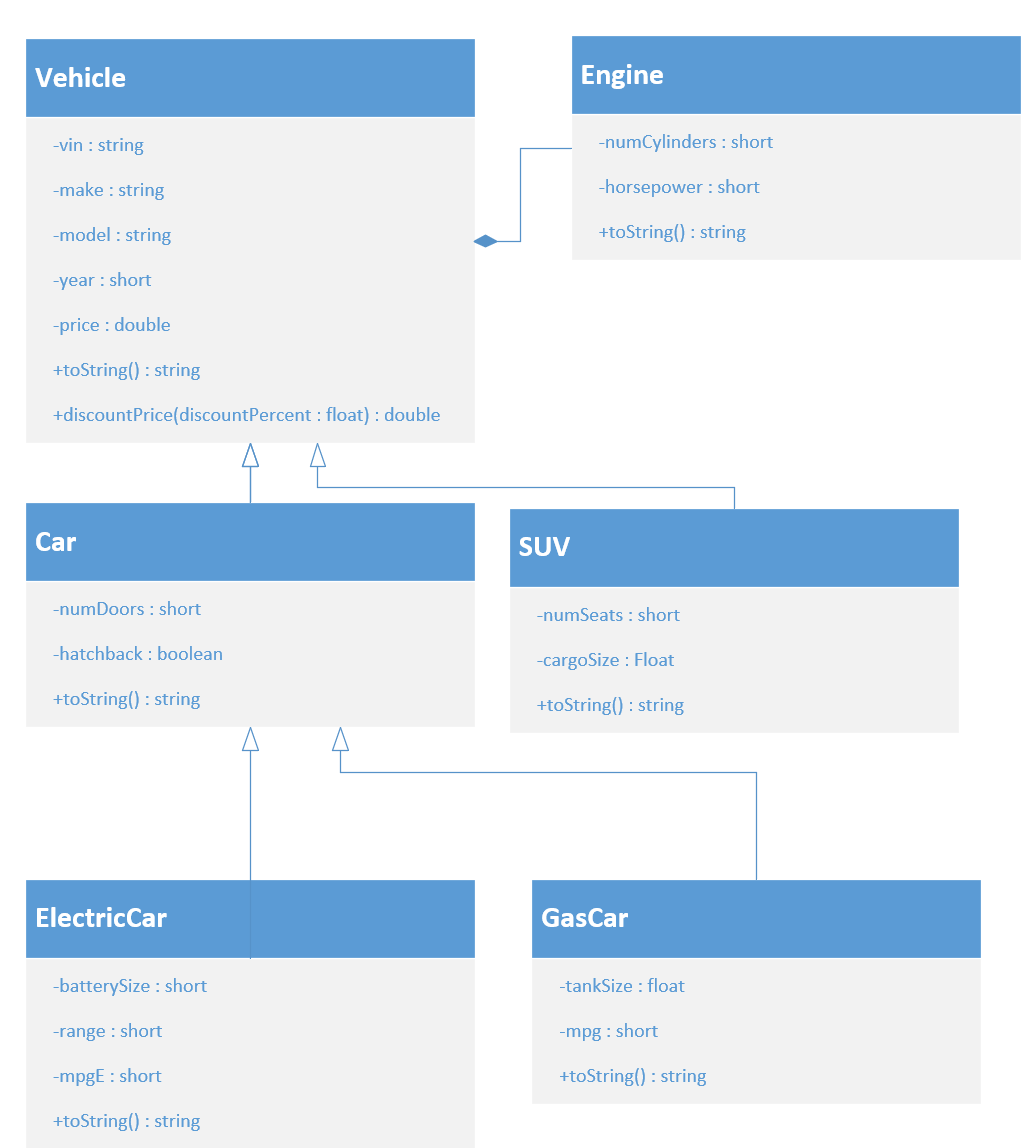
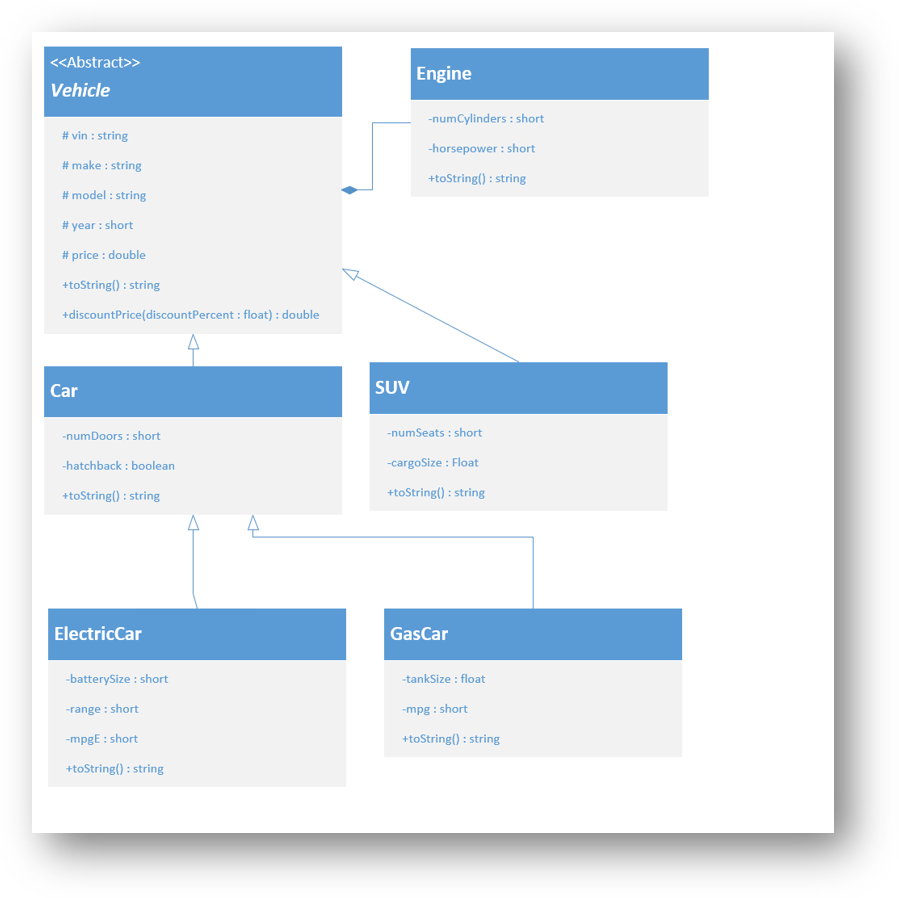
Completed Project

diff --git a/source/Source.cpp b/source/Source.cpp
@@ -2,8 +2,8 @@
 --------------------------------
 Developer: Allan Pita
 Course: CIS247C
-Program: Inheritance
-Date: 06062020 (Week 5 Deliverable)
+Program: Polymorphism
+Date: 06142020 (Week 6 Deliverable)
 --------------------------------
 */
 #include <iostream>
@@ -18,40 +18,46 @@ Date: 06062020 (Week 5 Deliverable)
 using namespace std;
  
 // Functions Prototypes (not using polymorphism yet. Will update to reflect)
-void saveToFile( ElectricCar* ptrElectricCar );
-void saveToFile( GasCar* ptrGasCar );
-void saveToFile( SUV* ptrSUV );
-void saveToFile( Car* ptrCar );
 void saveToFile( Vehicle* ptrVehicle );
+string determineChildType(Vehicle* ptrVehicle);
  
+/// Entry point for the application
 int main()
 {
 	// create some Vehicle objects
-	Vehicle veh1("V2345678901234567", "General Make", "General Model", 2000, 
-		10000.0, Engine(4, 100));
-	Car car1("X2345678901234567", "Toyota", "Supra", 2010, 8500.0, 
+	const int NUM_CARS = 4;
+	Vehicle* vehicles[NUM_CARS];
+	vehicles[0] = new Car("X2345678901234567", "Ford", "Mustang", 2010, 8500.0,
 		2, false, Engine(8, 315));
-	SUV suv1("S2345678901234567", "Infiniti", "G35", 2015, 15000.0, 
+	vehicles[1] = new SUV("S2345678901234567", "Honda", "Pilot", 2015, 15000.0,
 		8, 47.7f, Engine(6, 250));
-	GasCar gas1("G2345678901234567", "Chevy", "Corvette", 2007, 
+	vehicles[2] = new GasCar("G2345678901234567", "Chevy", "Corvette", 2007,
 		16000.0, 2, false, 18, 19, Engine(8, 400));
-	ElectricCar electric1("E2345678901234567", "Telsa", "Model 3", 
+	vehicles[3] = new ElectricCar("E2345678901234567", "Telsa", "Model 3",
 		2018, 35000.0, 4, false, 75, 240, 136, Engine(0, 271));
  
- 
 	// check the size
-	cout << "Size of Car object: " << sizeof(car1) << endl;   // VERY LARGE
-	cout << "Size of pointer to Car object: " << sizeof( &car1 ) << endl;	cout << endl;  // blank line
+	cout << "Size of Vehicle pointer: " 
+		<< sizeof(vehicles[0]) << endl;  // MUCH smaller!
+	cout << "Size of Vehicle object (dereferenced): " 
+		<< sizeof( *vehicles[0] ) << endl;
+	cout << endl;  // blank line
+ 
  
 	// delete file if it exists
 	remove("data.txt");
  
 	// call the method to write your Car to the file
-	saveToFile( &veh1 );   // notice the  &  which means "Address Of"
-	saveToFile( &car1 );
-	saveToFile( &suv1 );
-	saveToFile( &gas1 );
-	saveToFile( &electric1 );
+	for (int i = 0; i < NUM_CARS; i++)
+	{
+		saveToFile(vehicles[i]);  // using positions in the pointer array
+	}
+ 
+	// clean our heap memory!
+	for	(int i = 0; i < NUM_CARS; i++)
+	{
+		delete vehicles[i];
+	}
  
 	// pause
 	cout << endl;
@@ -59,125 +65,86 @@ int main()
  
 	return 0;
 }
- 
-void saveToFile(ElectricCar* ptrElectricCar)
+
+string determineChildType(Vehicle * ptrVehicle)
 {
-	// open the pipe to the file
-	ofstream outToFile("data.txt", ios::app);   // app means "Append"
+	ElectricCar* e1 = dynamic_cast<ElectricCar*>(ptrVehicle);
+	if (e1 != nullptr)
+		return "ElectricCar";
  
-	// if the file is open, write the data to the file
-	if (outToFile.is_open())
-	{
-		// notice that we dereference the Car pointer using an arrow!
-		outToFile << ptrElectricCar->getVin() << ',' << ptrElectricCar->getMake() << ','
-			<< ptrElectricCar->getModel() << ',' << ptrElectricCar->getYear() << ','
-			<< ptrElectricCar->getPrice() << ',' << ptrElectricCar->getNumDoors() << ','
-			<< ptrElectricCar->getHatchback() << ','
-			<< ptrElectricCar->getBatterySize() << ','
-			<< ptrElectricCar->getRange() << ','
-			<< ptrElectricCar->getMpgE() << ','
-			<< ptrElectricCar->getMotor().getNumCylinders() << ','    // Notice the composition!
-			<< ptrElectricCar->getMotor().getHorsePower() << endl;
+	GasCar* g1 = dynamic_cast<GasCar*>(ptrVehicle);
+	if (g1 != nullptr)
+		return "GasCar";
  
-		// close the pipe
-		outToFile.close();
+	Car* c1 = dynamic_cast<Car*>(ptrVehicle);
+	if (c1 != nullptr)
+		return "Car";
  
-		// tell user that the data was written
-		cout << ptrElectricCar->getMake() << " " << ptrElectricCar->getModel() << " was written to the file!" << endl;
-	}
+	SUV* s1 = dynamic_cast<SUV*>(ptrVehicle);
+	if (s1 != nullptr)
+		return "SUV";
+ 
+	return "Error";
 }
- 
-void saveToFile(GasCar* ptrGasCar)
-{
-	// open the pipe to the file
-	ofstream outToFile("data.txt", ios::app);   // app means "Append"
- 
-												// if the file is open, write the data to the file
-	if (outToFile.is_open())
-	{
-		// notice that we dereference the Car pointer using an arrow!
-		outToFile << ptrGasCar->getVin() << ',' << ptrGasCar->getMake() << ','
-			<< ptrGasCar->getModel() << ',' << ptrGasCar->getYear() << ','
-			<< ptrGasCar->getPrice() << ',' << ptrGasCar->getNumDoors() << ','
-			<< ptrGasCar->getHatchback() << ','
-			<< ptrGasCar->getTankSize() << ','
-			<< ptrGasCar->getMPG() << ','
-			<< ptrGasCar->getMotor().getNumCylinders() << ','    // Notice the composition!
-			<< ptrGasCar->getMotor().getHorsePower() << endl;
- 
-		// close the pipe
-		outToFile.close();
- 
-		// tell user that the data was written
-		cout << ptrGasCar->getMake() << " " << ptrGasCar->getModel() << " was written to the file!" << endl;
-	}
-}
-void saveToFile(SUV* ptrSUV)
-{
-	// open the pipe to the file
-	ofstream outToFile("data.txt", ios::app);   // app means "Append"
- 
-												// if the file is open, write the data to the file
-	if (outToFile.is_open())
-	{
-		// notice that we dereference the Car pointer using an arrow!
-		outToFile << ptrSUV->getVin() << ',' << ptrSUV->getMake() << ','
-			<< ptrSUV->getModel() << ',' << ptrSUV->getYear() << ','
-			<< ptrSUV->getPrice() << ',' << ptrSUV->getNumSeats() << ','
-			<< ptrSUV->getCargoSize() << ','
-			<< ptrSUV->getMotor().getNumCylinders() << ','    // Notice the composition!
-			<< ptrSUV->getMotor().getHorsePower() << endl;
- 
-		// close the pipe
-		outToFile.close();
- 
-		// tell user that the data was written
-		cout << ptrSUV->getMake() << " " << ptrSUV->getModel() << " was written to the file!" << endl;
-	}
-}
- 
-void saveToFile(Car* ptrCar)
-{
-	// open the pipe to the file
-	ofstream outToFile("data.txt", ios::app);   // app means "Append"
- 
-												// if the file is open, write the data to the file
-	if (outToFile.is_open())
-	{
-		// notice that we dereference the Car pointer using an arrow!
-		outToFile << ptrCar->getVin() << ',' << ptrCar->getMake() << ','
-			<< ptrCar->getModel() << ',' << ptrCar->getYear() << ','
-			<< ptrCar->getPrice() << ',' << ptrCar->getNumDoors() << ','
-			<< ptrCar->getHatchback() << ','
-			<< ptrCar->getMotor().getNumCylinders() << ','    // Notice the composition!
-			<< ptrCar->getMotor().getHorsePower() << endl;
- 
-		// close the pipe
-		outToFile.close();
- 
-		// tell user that the data was written
-		cout << ptrCar->getMake() << " " << ptrCar->getModel() << " was written to the file!" << endl;
-	}
-}
+
 void saveToFile(Vehicle* ptrVehicle)
 {
 	// open the pipe to the file
 	ofstream outToFile("data.txt", ios::app);   // app means "Append"
  
-												// if the file is open, write the data to the file
+	// determine the child type and write the child data
+	string childType = determineChildType(ptrVehicle);
+ 
+	// if the file is open, write the data to the file
 	if (outToFile.is_open())
 	{
-		// notice that we dereference the Car pointer using an arrow!
+		// write the child type AND STAY ON THE SAME OUTPUT LINE
+		outToFile << childType << ',';
+ 
+		// ON THE SAME LINE, write parent information using the parent refence
 		outToFile << ptrVehicle->getVin() << ',' << ptrVehicle->getMake() << ','
 			<< ptrVehicle->getModel() << ',' << ptrVehicle->getYear() << ','
 			<< ptrVehicle->getPrice() << ',' 
-			<< ptrVehicle->getMotor().getNumCylinders() << ','    // Notice the composition!
-			<< ptrVehicle->getMotor().getHorsePower() << endl;
+			<< ptrVehicle->getMotor().getNumCylinders() << ','
+			<< ptrVehicle->getMotor().getHorsePower();
+ 
+		// dynamic cast to get child object and write child info ON SAME LINE
+		if (childType == "SUV")
+		{
+			SUV* s1 = dynamic_cast<SUV*>(ptrVehicle);
+			outToFile << ',' << s1->getNumSeats() 
+				<< ',' << s1->getCargoSize();
+		}
+ 
+		if (childType == "Car")
+		{
+			// write info if Car or child of Car (GasCar or ElectricCar)
+			Car* c1 = dynamic_cast<Car*>(ptrVehicle);
+			outToFile << ',' << c1->getNumDoors() 
+				<< ',' << c1->getHatchback();
+		}
+ 
+		if (childType == "ElectricCar")
+		{
+			ElectricCar* e1 = dynamic_cast<ElectricCar*>(ptrVehicle);
+			outToFile << ',' << e1->getBatterySize() << ','
+				<< e1->getRange() << ',' << e1->getMpgE();
+		}
+ 
+		else if (childType == "GasCar")
+		{
+			GasCar* g1 = dynamic_cast<GasCar*>(ptrVehicle);
+			outToFile << ',' << g1->getTankSize() << ',' << g1->getMPG();
+		}
+ 
+		// drop down to next line in file so we are ready for the next record
+		outToFile << endl;
  
 		// close the pipe
 		outToFile.close();
  
 		// tell user that the data was written
-		cout << ptrVehicle->getMake() << " " << ptrVehicle->getModel() << " was written to the file!" << endl;
+		cout << ptrVehicle->getMake() << " " << ptrVehicle->getModel() 
+			<< " was written to the file!" << endl;
 	}
 }

diff --git a/source/Vehicle.h b/source/Vehicle.h
@@ -4,8 +4,9 @@
 #include "Engine.h"
 using namespace std;
  
-class Vehicle{
-private:
+class Vehicle
+{
+protected:
 	// attributes
 	string vin;
 	string make;
@@ -19,7 +20,7 @@ public:
 	Vehicle();
 	Vehicle(string vin, string make, string model, short year, 
 		double price, Engine motor);
-	virtual ~Vehicle();
+	virtual ~Vehicle() = 0;
  
 	// behaviors in the public section!
 	virtual string toString();

diff --git a/source/ElectricCar.h b/source/ElectricCar.h
@@ -14,7 +14,9 @@ public:
 	ElectricCar();
 	ElectricCar(string vin, string make, string model, short year, double price, 
 		short numDoors, bool hatchback, float batterySize, short range, 
-		short mpgE, Engine motor);	virtual ~ElectricCar();
+		short mpgE, Engine motor);	
+	
+	virtual ~ElectricCar();
  
 	// behaviors
 	string toString();
